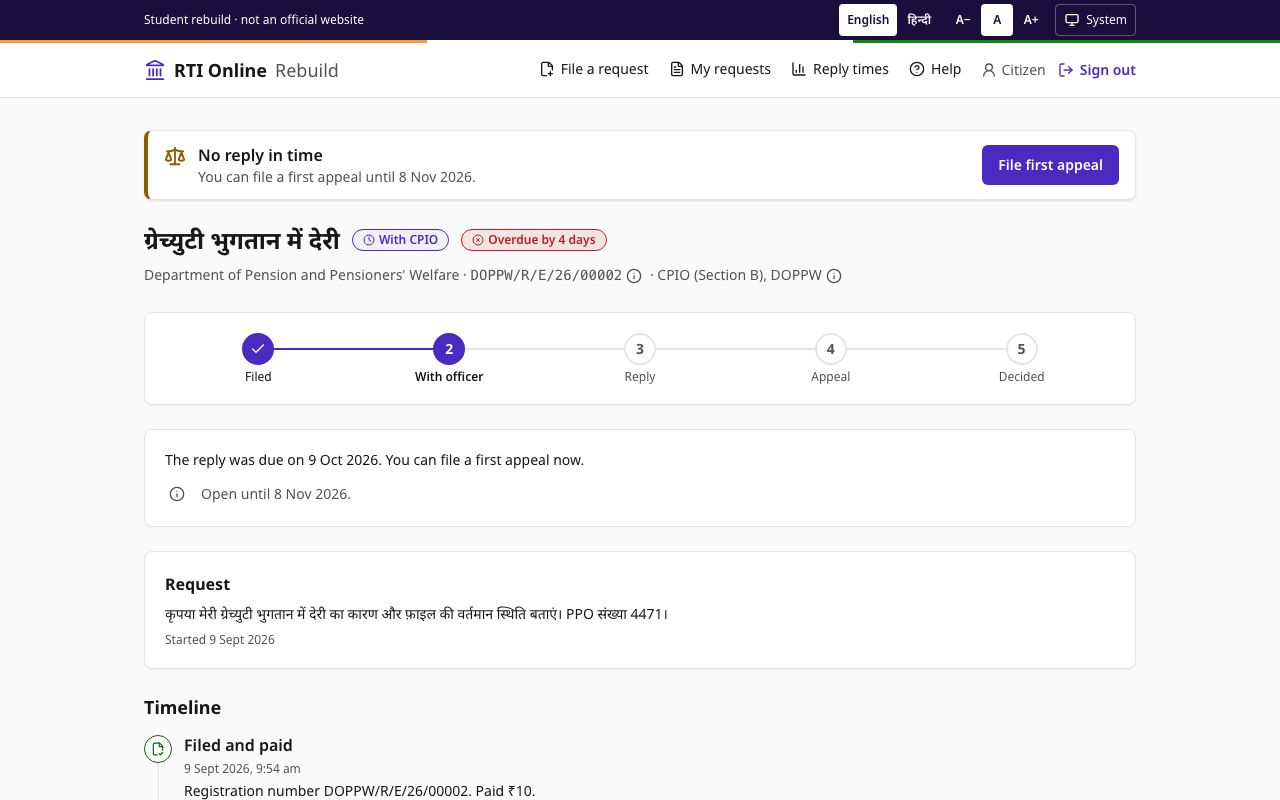
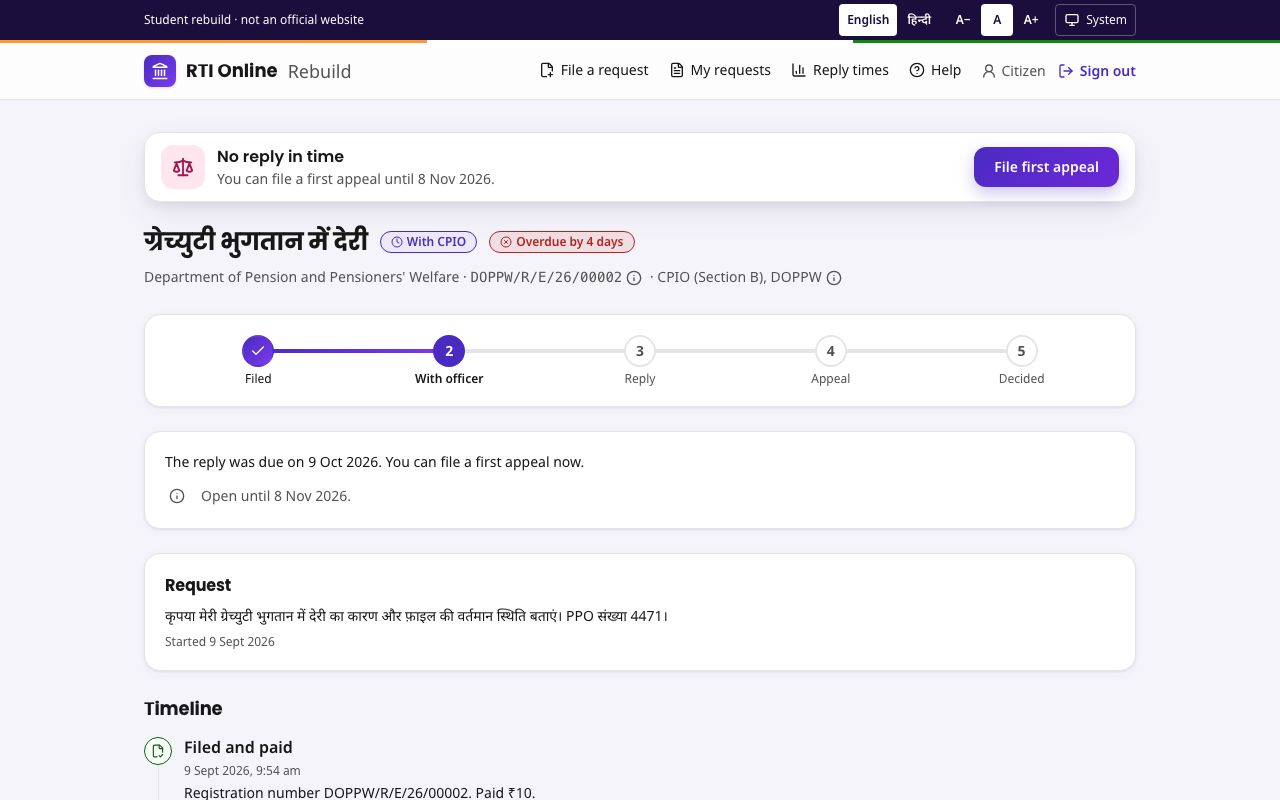
docs(redesign): v4 screenshots and feature shots; solid phone tab bar

diff --git a/scripts/capture-redesign.ts b/scripts/capture-redesign.ts
@@ -20,16 +20,21 @@ const DEMO_EMAIL = process.env.CAPTURE_EMAIL ?? "rti.archita+citizen.asha@gmail.
 
 async function shot(page: Page, name: string, fullPage = false) {
   await page.waitForLoadState("networkidle").catch(() => {});
+  await page.waitForTimeout(1600); // let entrance animations and the confetti finish
   await page.screenshot({ path: `${OUT}/${name}.jpg`, type: "jpeg", quality: 80, fullPage });
   console.log("saved", name);
 }
 
-async function open(browser: Browser, viewport: typeof DESKTOP, opts: { phone?: boolean; lang?: "hi" } = {}) {
+type Session = Awaited<ReturnType<import("@playwright/test").BrowserContext["storageState"]>>;
+
+async function open(browser: Browser, viewport: typeof DESKTOP, opts: { phone?: boolean; lang?: "hi"; session?: Session } = {}) {
   const context = await browser.newContext({
     viewport,
     colorScheme: "light",
     // A phone honours (or, on the real portal, lacks) the viewport meta tag.
     ...(opts.phone ? { isMobile: true, hasTouch: true, deviceScaleFactor: 2 } : {}),
+    // Reuse one sign-in: the app allows 3 codes per 15 minutes per email.
+    ...(opts.session ? { storageState: opts.session } : {}),
   });
   if (opts.lang) await context.addCookies([{ name: "rti_lang", value: opts.lang, url: OURS }]);
   return context.newPage();
@@ -49,8 +54,9 @@ async function main() {
   await mkdir(OUT, { recursive: true });
   const browser = await chromium.launch();
 
-  // Before: rtionline.gov.in
+  // Before: rtionline.gov.in (unchanged since October 2026; set CAPTURE_BEFORE=1 to retake)
   let page = await open(browser, DESKTOP);
+  if (process.env.CAPTURE_BEFORE) {
   await page.goto(REAL);
   await shot(page, "before-home-desktop");
   await page.goto(`${REAL}/guidelines.php?request`);
@@ -62,6 +68,7 @@ async function main() {
   page = await open(browser, PHONE, { phone: true });
   await page.goto(REAL);
   await shot(page, "before-home-phone");
+  }
 
   // After: this rebuild, signed out
   page = await open(browser, DESKTOP);
@@ -71,9 +78,10 @@ async function main() {
   await page.goto(OURS);
   await shot(page, "after-home-phone");
 
-  // After: signed in as the demo citizen
+  // After: signed in as the demo citizen (one sign-in, reused below)
   page = await open(browser, DESKTOP);
   await signIn(page);
+  const session = await page.context().storageState();
   await page.goto(OURS);
   await shot(page, "after-citizen-home-desktop");
   const appealHref = await page.getByRole("link", { name: "File first appeal" }).first().getAttribute("href");
@@ -90,15 +98,13 @@ async function main() {
   await page.goto(`${OURS}${appealHref}`);
   await shot(page, "after-appeal-desktop");
 
-  page = await open(browser, PHONE, { phone: true });
-  await signIn(page);
+  page = await open(browser, PHONE, { phone: true, session });
   await page.goto(OURS);
   await shot(page, "after-citizen-home-phone");
   await page.goto(`${OURS}/requests/${overdueId}`);
   await shot(page, "after-case-phone");
 
-  page = await open(browser, PHONE, { phone: true, lang: "hi" });
-  await signIn(page);
+  page = await open(browser, PHONE, { phone: true, lang: "hi", session });
   await page.goto(OURS);
   await shot(page, "after-hindi-phone");
 

diff --git a/components/bottom-nav-bar.tsx b/components/bottom-nav-bar.tsx
@@ -19,7 +19,7 @@ export function BottomNavBar() {
   return (
     <nav
       aria-label={t.nav.quick}
-      className="fixed inset-x-0 bottom-0 z-40 border-t border-line bg-surface/95 pb-[env(safe-area-inset-bottom)] backdrop-blur-md md:hidden"
+      className="fixed inset-x-0 bottom-0 z-40 border-t border-line bg-surface pb-[env(safe-area-inset-bottom)] md:hidden"
     >
       <ul className="mx-auto grid max-w-md grid-cols-4">
         <li>

diff --git a/docs/redesign/README.md b/docs/redesign/README.md
@@ -1,6 +1,6 @@
 # Redesign: before and after
 
-How this rebuild redesigns [rtionline.gov.in](https://rtionline.gov.in) visually and in its flows. "Before" is the real portal (public pages only, captured October 2026); "after" is this site. Spec: [SPEC.md, Version 3](../../SPEC.md#version-3-redesign-october-2026).
+How this rebuild redesigns [rtionline.gov.in](https://rtionline.gov.in) visually and in its flows. "Before" is the real portal (public pages only, captured October 2026); "after" is this site with the v4 "Bright civic" look (gradients, Poppins headings, illustrations). Spec: [SPEC.md, Version 3](../../SPEC.md#version-3-redesign-october-2026).
 
 ## What changed
 
@@ -67,6 +67,12 @@ Signed in, the home page leads with what needs doing:
 The appeal opens already filled in from the request, with the suggested ground selected:
 
 ![First appeal form](after-appeal-desktop.jpg)
+
+## New features
+
+| AI rewrite (a real Gemini answer) | Card checkout | Timeline |
+|---|---|---|
+| ![Filing form with a formal rewrite](feature-rewrite.jpg) | ![Card checkout with a saved card](feature-checkout.jpg) | ![Case progress and timeline](feature-timeline.jpg) |
 
 ## Regenerating the screenshots
 
